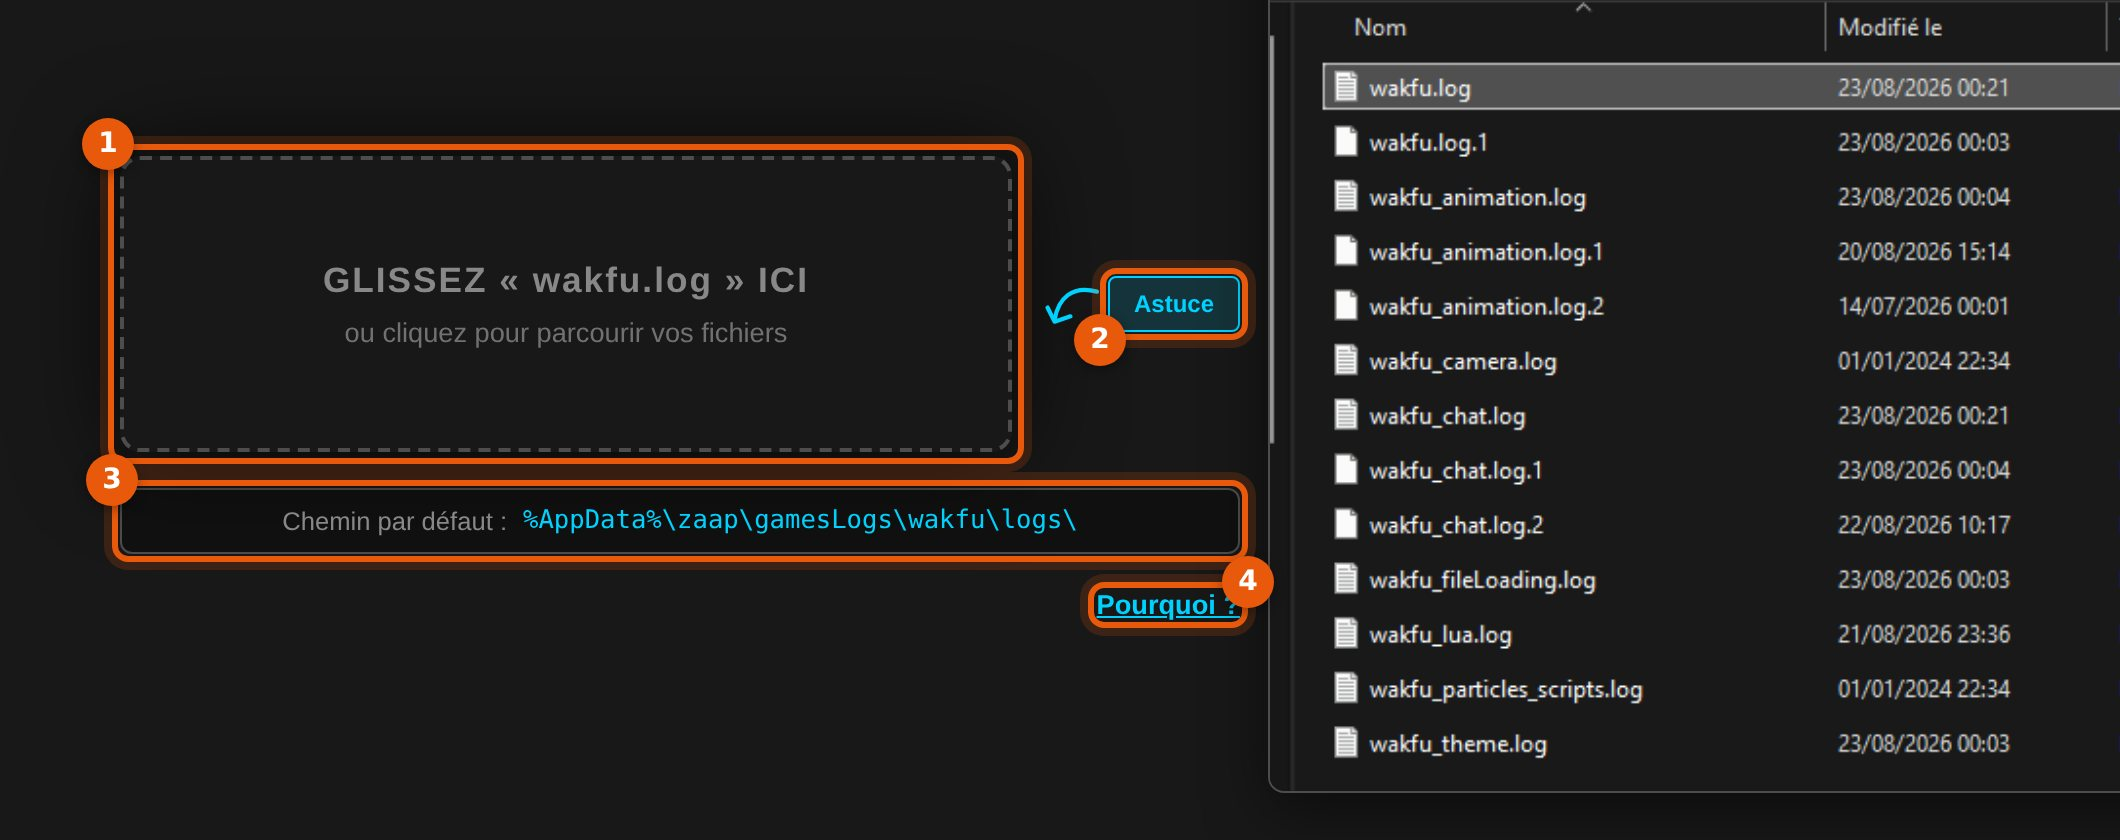
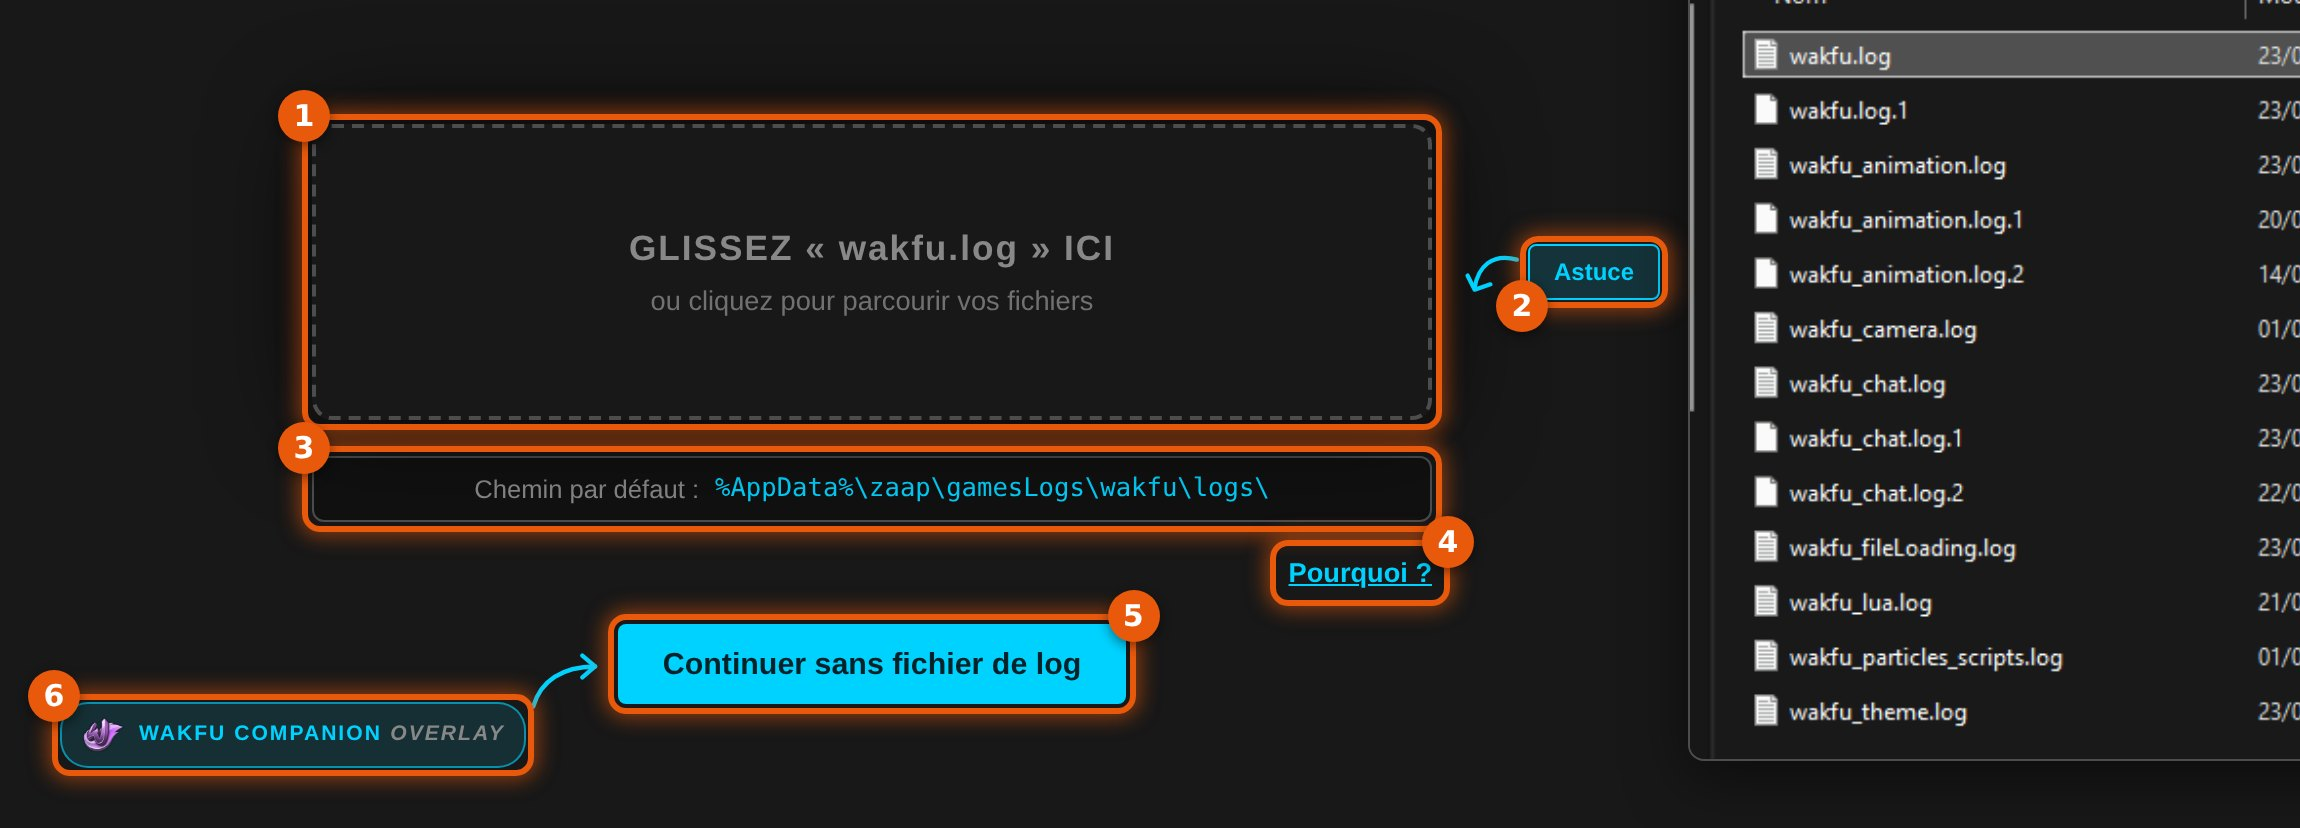
docs: pas-à-pas, écran de connexion à jour
Claude-Session: https://claude.ai/code/session_014MrUREXft6UmtsBw2UEX9N

diff --git a/src/app/core/i18n/translations.ts b/src/app/core/i18n/translations.ts
@@ -577,6 +577,10 @@ export const TRANSLATIONS: Record<AppLocale, Record<string, string>> = {
       "<b>Chemin par défaut</b>%AppData%\\zaap\\gamesLogs\\wakfu\\logs\\ : copiez-le dans la barre d'adresse de l'explorateur.",
     'onboarding.setup.l4':
       '<b>Pourquoi ?</b>Explique pourquoi seuls Chrome, Edge et Opera savent suivre le fichier en direct.',
+    'onboarding.setup.l5':
+      '<b>Sans fichier</b>Connectez-vous avec Discord ou Google : personnages et suivi restent accessibles, sans lecture en direct.',
+    'onboarding.setup.l6':
+      "<b>Wakfu Overlay</b>Vous l'utilisez déjà ? Il lit wakfu.log à votre place : continuez sans fichier.",
     'onboarding.setup.m1':
       '<b>Au retour</b> Le navigateur redemande une confirmation. Un clic sur « Reconnecter » suffit.',
     'onboarding.setup.m2':
@@ -1651,6 +1655,10 @@ export const TRANSLATIONS: Record<AppLocale, Record<string, string>> = {
       "<b>Default path</b>%AppData%\\zaap\\gamesLogs\\wakfu\\logs\\ — paste it into the explorer's address bar.",
     'onboarding.setup.l4':
       '<b>Why?</b>Explains why only Chrome, Edge and Opera can follow the file live.',
+    'onboarding.setup.l5':
+      '<b>Without a file</b>Sign in with Discord or Google: characters and tracking stay available, without live reading.',
+    'onboarding.setup.l6':
+      '<b>Wakfu Overlay</b>Already using it? It reads wakfu.log for you: continue without a file.',
     'onboarding.setup.m1':
       '<b>When you come back</b> The browser asks for confirmation again. One click on "Reconnect" is enough.',
     'onboarding.setup.m2':
@@ -2715,6 +2723,10 @@ export const TRANSLATIONS: Record<AppLocale, Record<string, string>> = {
       '<b>Ruta por defecto</b>%AppData%\\zaap\\gamesLogs\\wakfu\\logs\\ — pégala en la barra de direcciones del explorador.',
     'onboarding.setup.l4':
       '<b>¿Por qué?</b>Explica por qué solo Chrome, Edge y Opera pueden seguir el archivo en directo.',
+    'onboarding.setup.l5':
+      '<b>Sin archivo</b>Inicia sesión con Discord o Google: personajes y seguimiento siguen disponibles, sin lectura en directo.',
+    'onboarding.setup.l6':
+      '<b>Wakfu Overlay</b>¿Ya lo usas? Lee wakfu.log por ti: continúa sin archivo.',
     'onboarding.setup.m1':
       '<b>Al volver</b> El navegador pide confirmación de nuevo. Basta un clic en «Reconectar».',
     'onboarding.setup.m2':
@@ -3793,6 +3805,10 @@ export const TRANSLATIONS: Record<AppLocale, Record<string, string>> = {
       '<b>Caminho padrão</b>%AppData%\\zaap\\gamesLogs\\wakfu\\logs\\ — cole-o na barra de endereço do explorador.',
     'onboarding.setup.l4':
       '<b>Por quê?</b>Explica por que só o Chrome, o Edge e o Opera conseguem acompanhar o arquivo ao vivo.',
+    'onboarding.setup.l5':
+      '<b>Sem arquivo</b>Entre com Discord ou Google: personagens e acompanhamento continuam disponíveis, sem leitura ao vivo.',
+    'onboarding.setup.l6':
+      '<b>Wakfu Overlay</b>Já usa? Ele lê o wakfu.log por você: continue sem arquivo.',
     'onboarding.setup.m1':
       '<b>Ao voltar</b> O navegador pede confirmação de novo. Basta um clique em "Reconectar".',
     'onboarding.setup.m2':

diff --git a/src/app/core/data/onboarding-slides.data.ts b/src/app/core/data/onboarding-slides.data.ts
@@ -188,7 +188,7 @@ export const ONBOARDING_SLIDES: readonly OnboardingSlide[] = [
     essential: true,
     hasLede: true,
     blocks: [
-      { kind: 'hero', image: img('setup-annot', 2120, 840), legend: legend('setup', 4) },
+      { kind: 'hero', image: img('setup-annot', 2300, 828), legend: legend('setup', 6) },
       {
         kind: 'mosaic',
         columns: 3,
